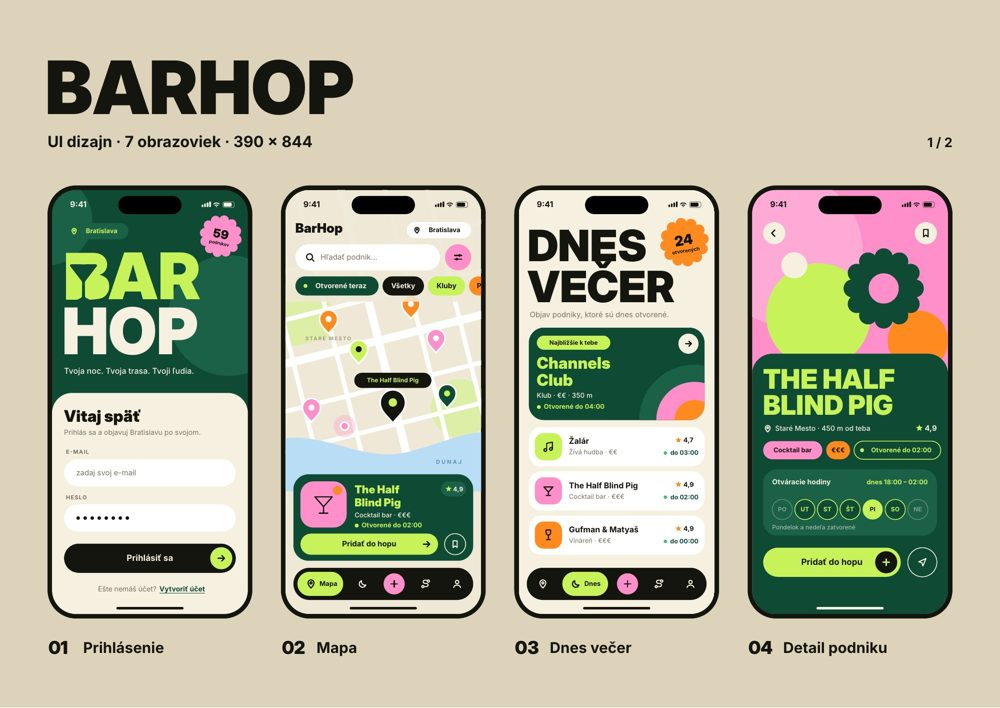
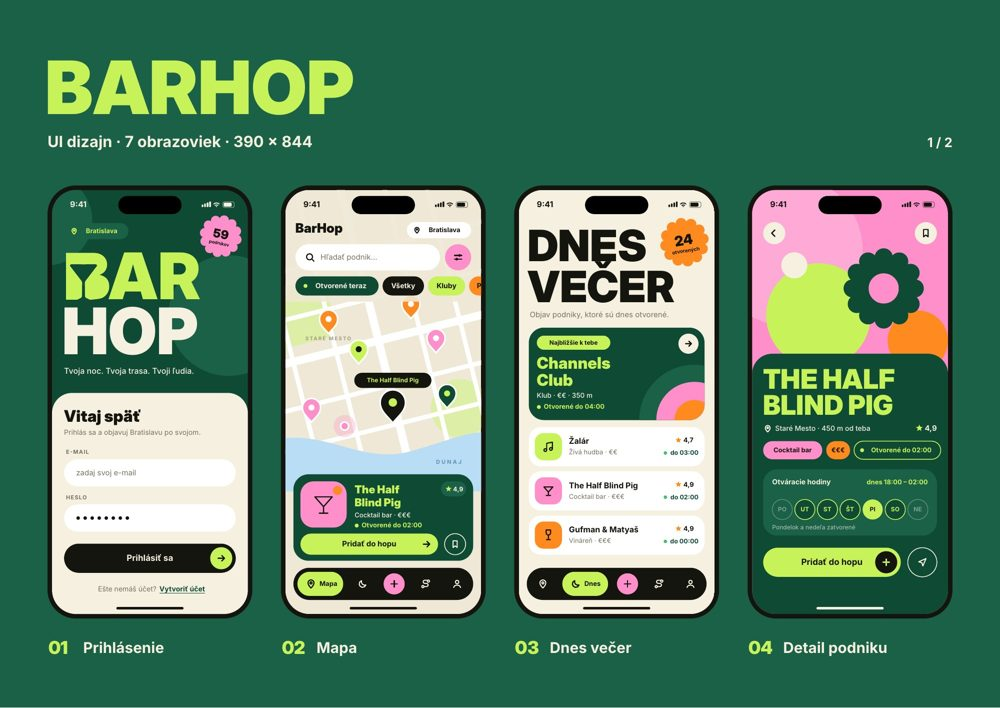
‘update9; git push git add -A; git commit -am ‘update9

diff --git a/index.html b/index.html
@@ -10,7 +10,7 @@
 <link href="https://fonts.googleapis.com/css2?family=Pacifico&family=Caveat:wght@600&display=swap" rel="stylesheet">
 <link rel="icon" type="image/png" href="image/favicon.png">
 <link rel="apple-touch-icon" href="image/apple-touch-icon.png">
-<link rel="stylesheet" href="style.css?v=1180" />
+<link rel="stylesheet" href="style.css?v=1181" />
 <script>document.documentElement.classList.add("js","is-loading");</script>
 </head>
 <body>
@@ -142,8 +142,8 @@
   </div>
 </div>
 
-<script src="script.js?v=1180"></script>
-<script src="doodle.js?v=1180"></script>
-<script src="motion.js?v=1180"></script>
+<script src="script.js?v=1181"></script>
+<script src="doodle.js?v=1181"></script>
+<script src="motion.js?v=1181"></script>
 </body>
 </html>
